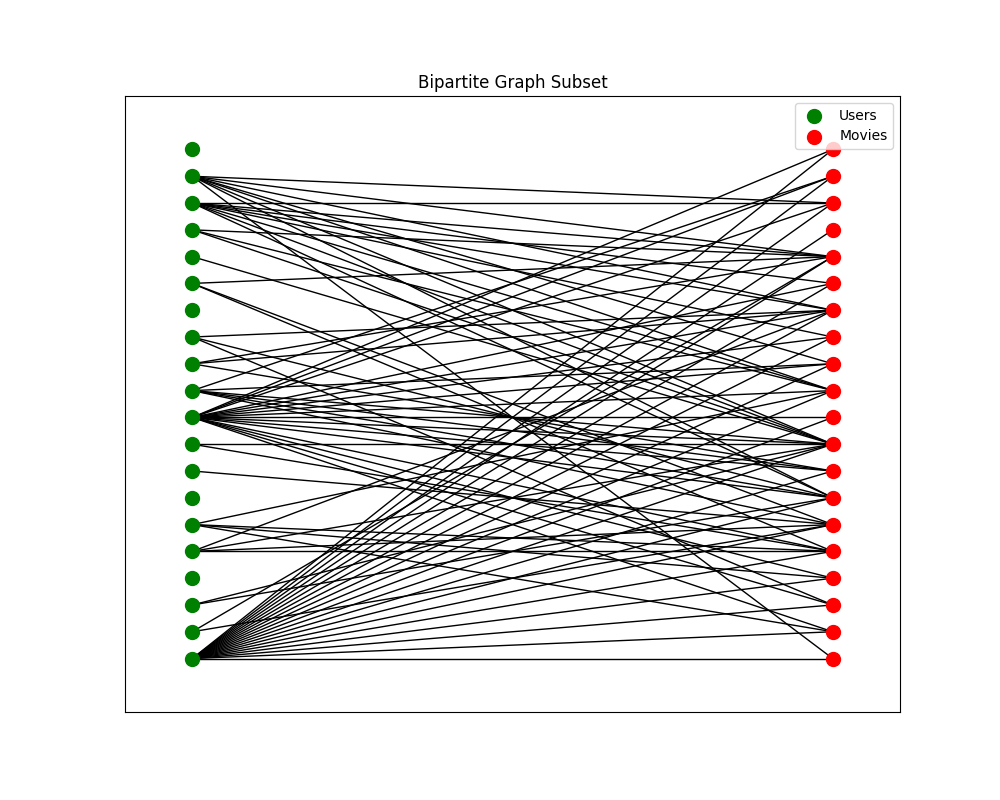
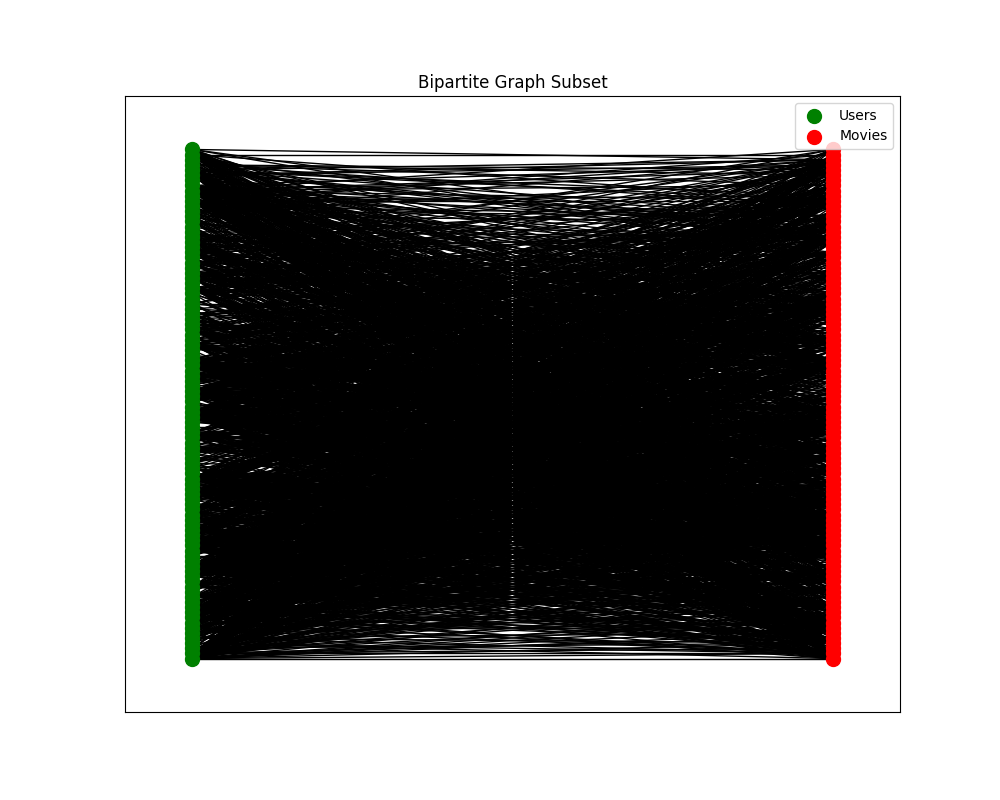
Added the models I worked on

diff --git a/MovieRatingPrediction.py b/MovieRatingPrediction.py
@@ -1,10 +1,11 @@
 import pandas as pd
 import numpy as np
 import networkx as nx
-from sklearn.model_selection import train_test_split
 import xgboost as xgb
 from sklearn.metrics import mean_squared_error
+from sklearn.model_selection import KFold
 import matplotlib.pyplot as plt
+from sklearn.metrics import roc_auc_score, f1_score, roc_curve
 
 # Load and pre-process data ---------------------------------------------------------------------
 # Ratings: user_id, movie_id, rating, timestamp
@@ -105,30 +106,65 @@ for row in df.itertuples(index=False):
 X = np.array(X)
 y = np.array(y)
 
-# Split data, train model, and make prediction---------------------------------------------------------------------
-X_train, X_test, y_train, y_test = train_test_split(X, y, test_size=0.2)
 
-# Using Random Forest, but I would probably suggest to swap to something that uses tabular data wekk like XGBoost
-# Random forest output is aight, not the best
+kfold = KFold(n_splits=5, shuffle=True)
+scores = []
 
-# changed to XGBoost
-# TODO: Implement max_cat_to_onehot for better prediction
-model = xgb.XGBRegressor(objective='reg:squarederror', n_estimators=100, learning_rate=0.01, max_depth=2, colsample_bytree=1, gamma=0, seed=100)
+# Regression Model
+for train_index, test_index in kfold.split(X):
+    X_train, X_test = X[train_index], X[test_index]
+    y_train, y_test = y[train_index], y[test_index]
 
-# Train the model on training data
-model.fit(X_train, y_train)
+    model = xgb.XGBRegressor(objective='reg:squarederror', n_estimators=100, learning_rate=0.01, max_depth=2,
+                             colsample_bytree=1, gamma=0)
 
-# Predict on the test set
-y_pred = model.predict(X_test)
+    # Train the model on training data
+    model.fit(X_train, y_train)
 
-# Model evaulation---------------------------------------------------------------------
-# Evaulation is made using RMSE
-rmse = mean_squared_error(y_test, y_pred)
-print("Test RMSE:", rmse)
+
+    # Predict on the test set
+    y_pred = model.predict(X_test)
+
+    # Model evaulation---------------------------------------------------------------------
+    # Evaulation is made using RMSE
+    rmse = mean_squared_error(y_test, y_pred)
+    scores.append(rmse)
+
+for i in range(0, len(scores)):
+    print(f"Prediction RMSE - model_{i}: {scores[i]:.2f}")
+
+# Classification Model
+kfold_classification = KFold(n_splits=5, shuffle=True)
+scores_f1 = []
+scores_roc = []
+y= y-1
+
+for train_index, test_index in kfold_classification.split(X):
+    X_train, X_test = X[train_index], X[test_index]
+    y_train, y_test = y[train_index], y[test_index]
+
+    model = xgb.XGBClassifier(objective='multi:softprob', num_class=5, n_estimators=500, learning_rate=0.02, max_depth=8,
+                             colsample_bytree=0.8, gamma=0.2)
+
+    # Train the model on training data
+    model.fit(X_train, y_train)
+
+    # Predict on the test set
+    y_pred_roc = model.predict_proba(X_test)
+    y_pred = model.predict(X_test)
+
+    scores_f1.append(f1_score(y_test, y_pred, average="macro"))
+    scores_roc.append(roc_auc_score(y_test, y_pred_roc, average="macro", multi_class="ovr"))
+
+for i in range(0, len(scores_f1)):
+    print(f"ROC-score - model_{i}: {scores_roc[i]:.2f}")
+
+for i in range(0, len(scores_f1)):
+    print(f"F1-score - model_{i}: {scores_f1[i]:.2f}")
 
 # Make graph from a smal subset of the data (bipartide graph)------------------------------
 # Get a subset size that is <= 1 million
-subset_size = 20
+subset_size = 100
 
 # Use prefix user id's to grab the correct nodes
 subset_users = [f"U_{uid}" for uid in list(user_nodes)[:subset_size]]
